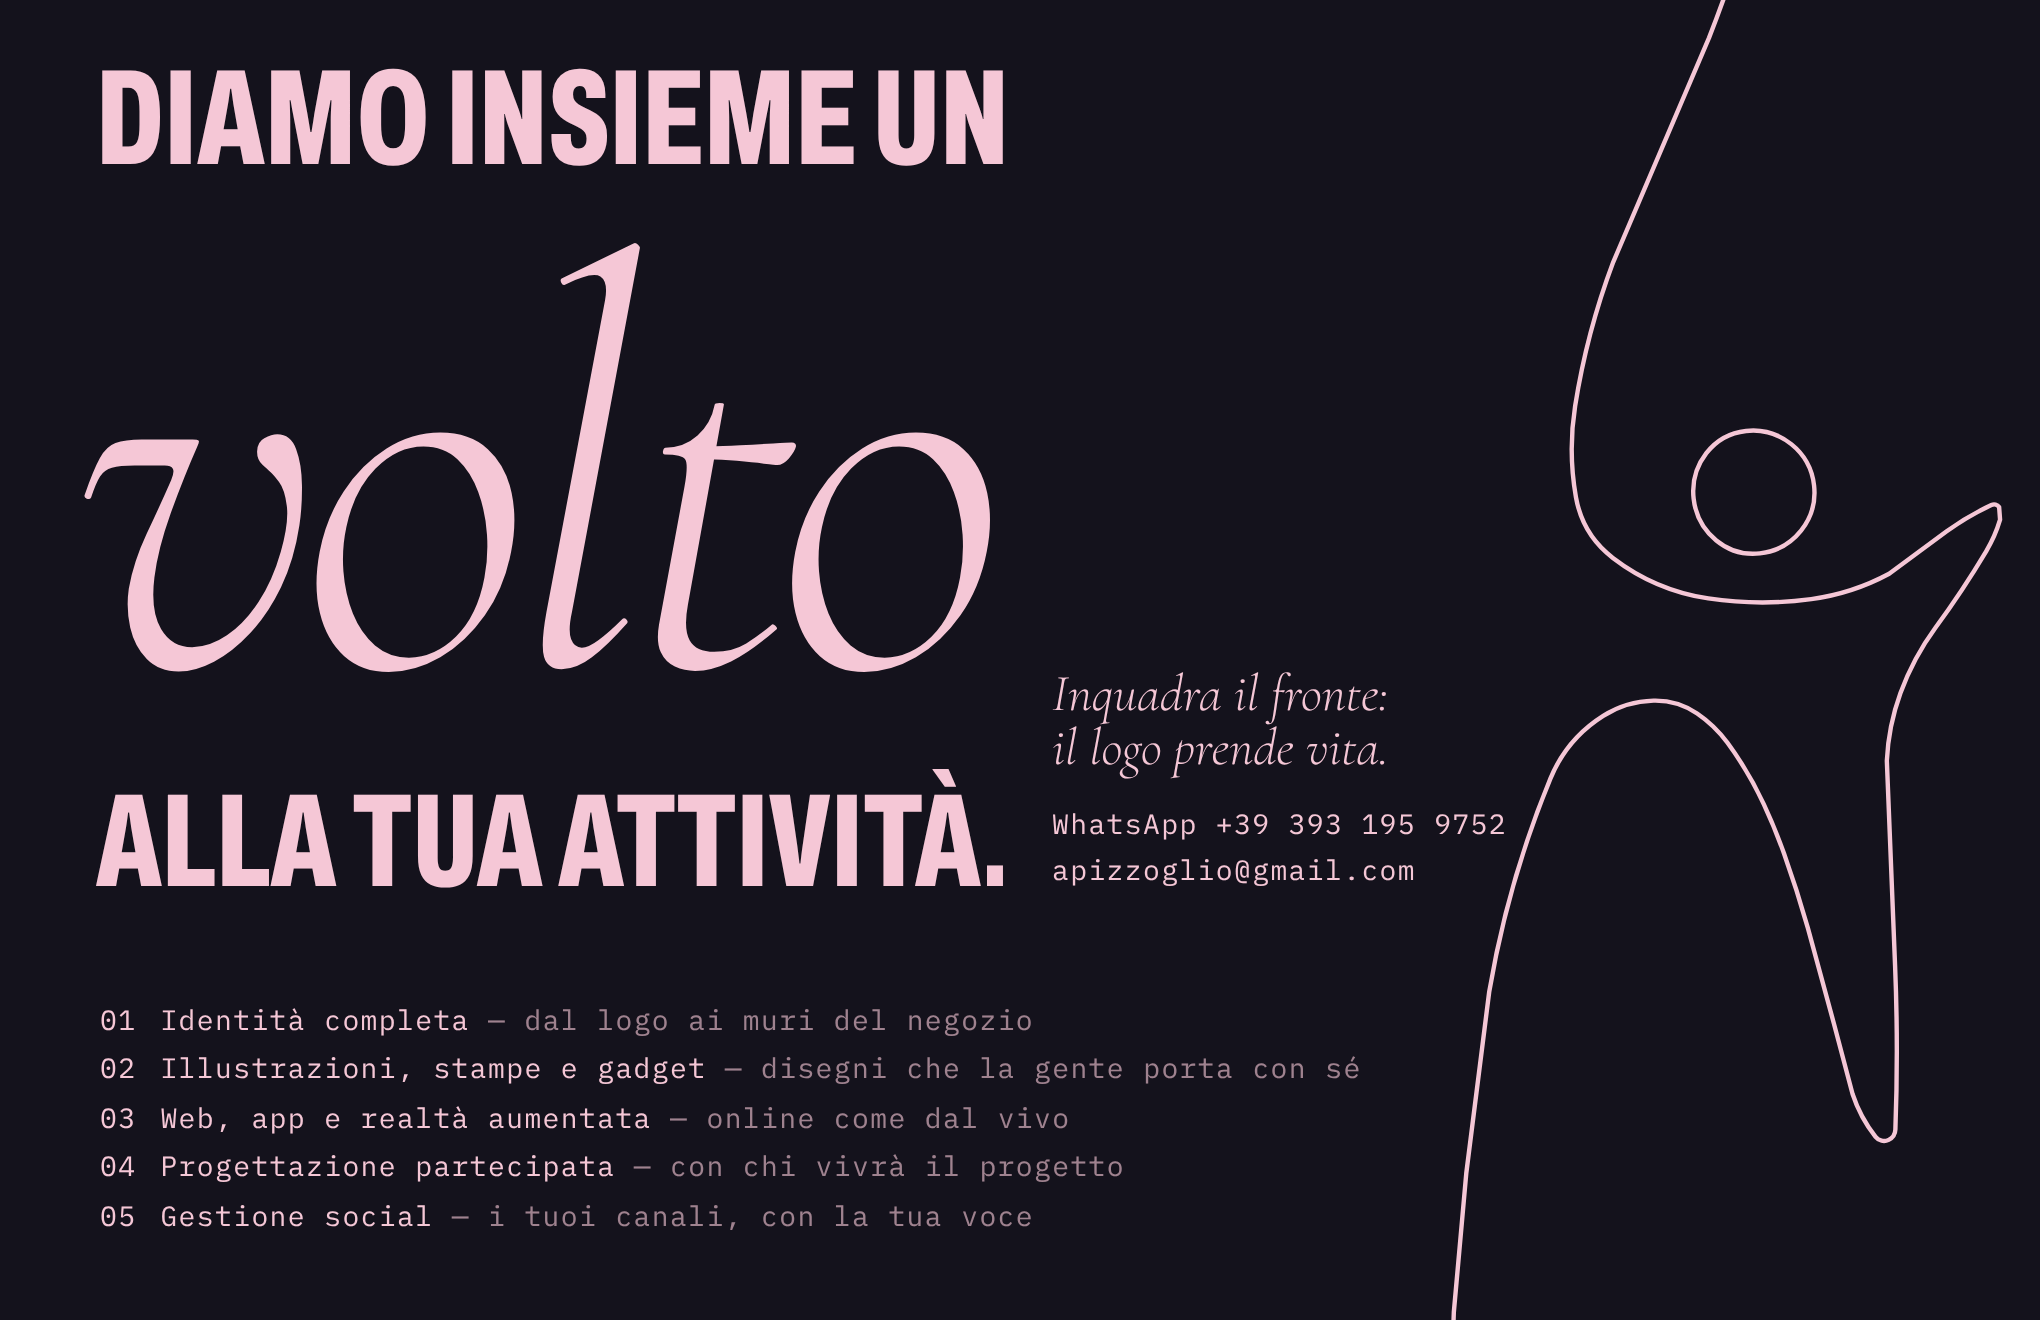
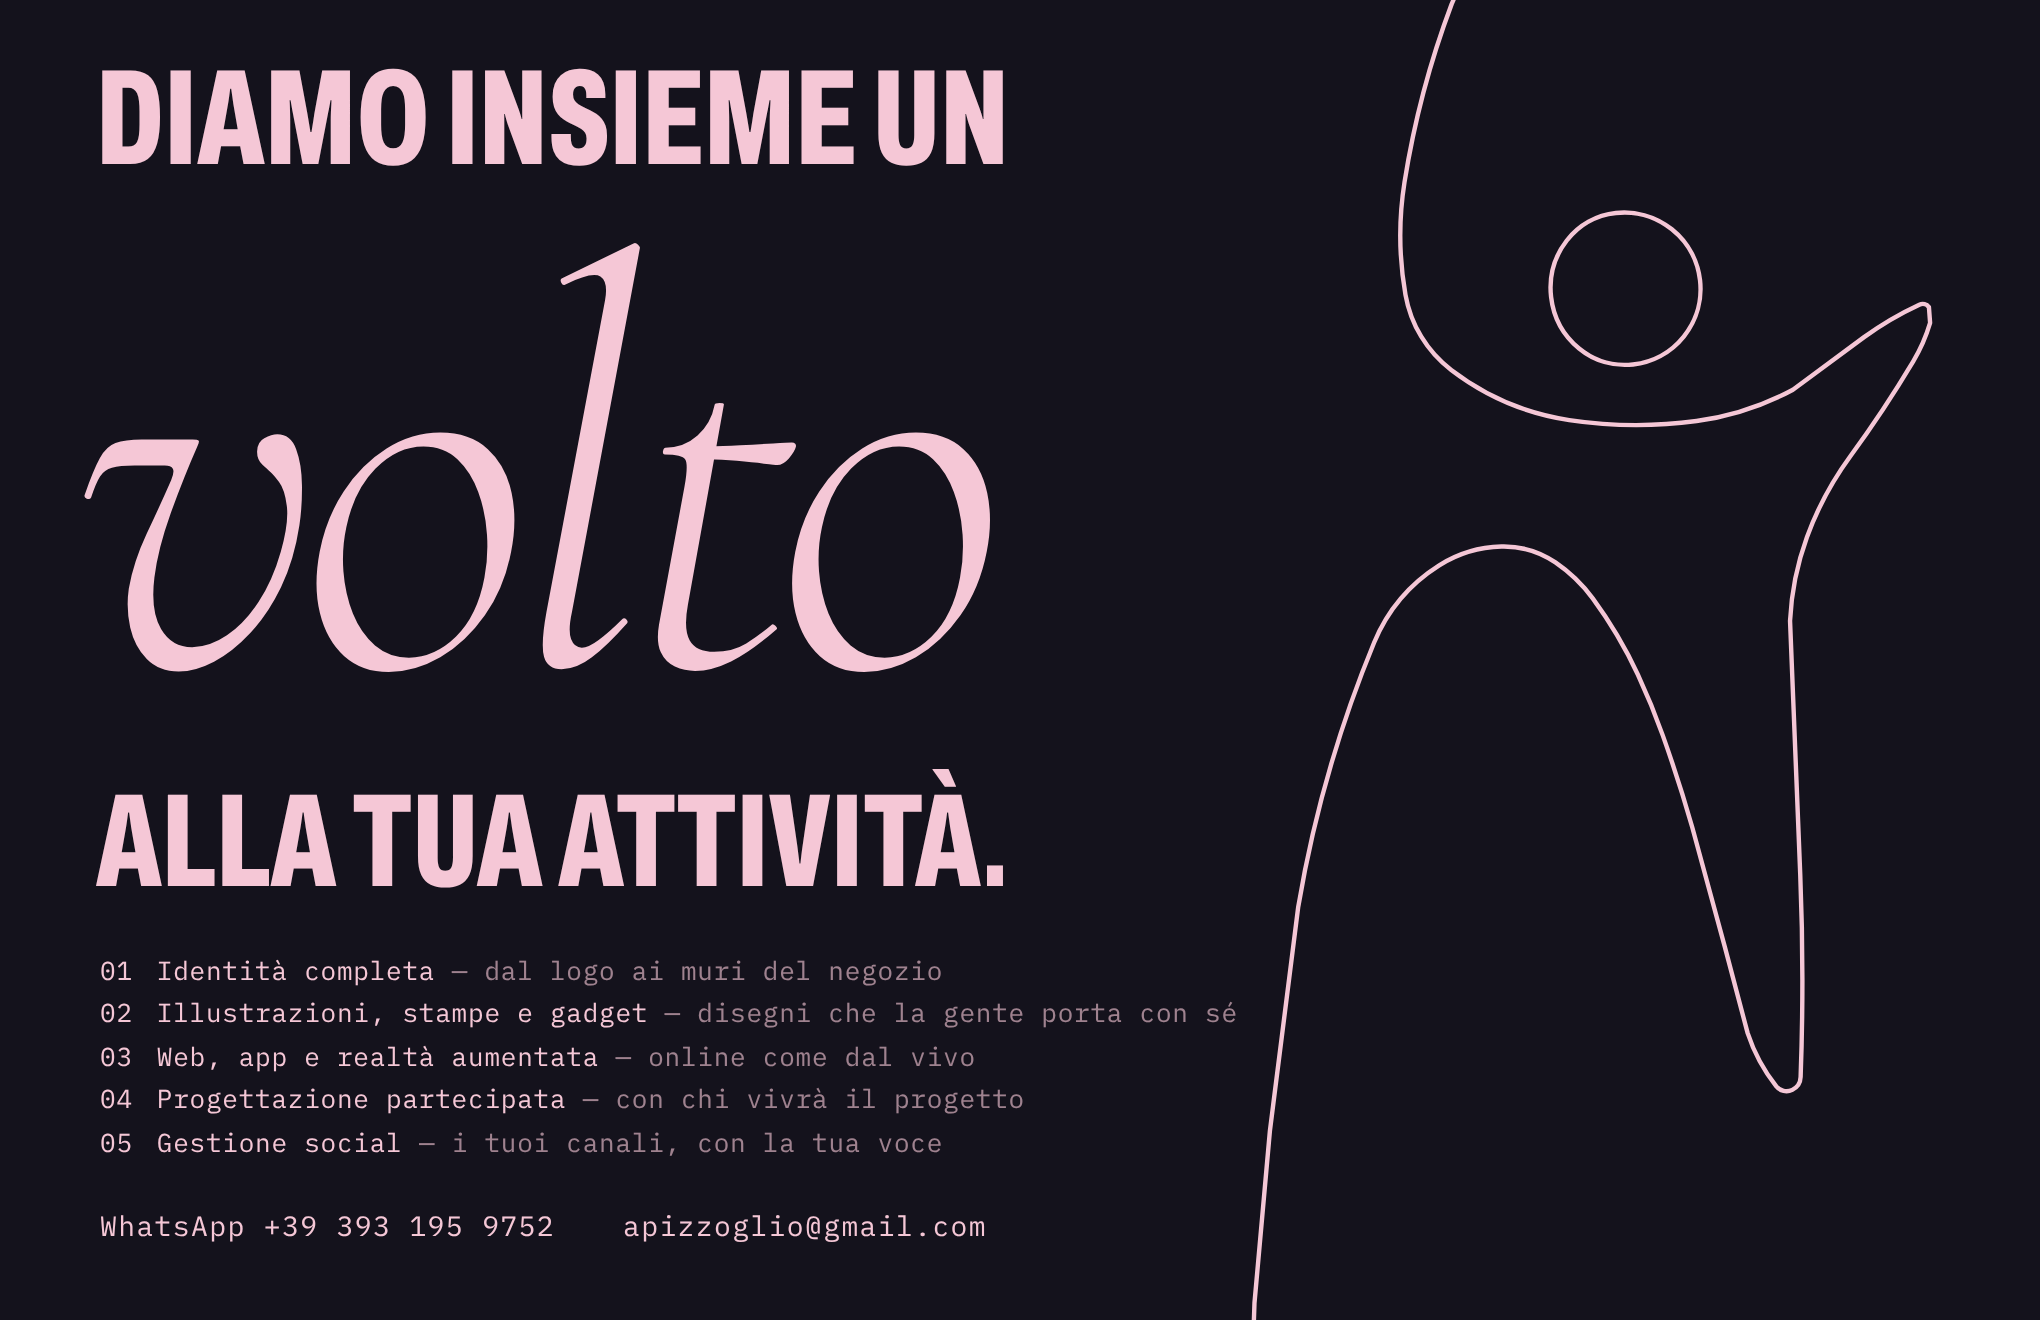
Biglietto, retro: la i piu' grande e verso il centro; via la riga sull'inquadrare, contatti in una riga sotto i servizi
Claude-Session: https://claude.ai/code/session_017BM5XjeHCbJ6zegj574eXv

diff --git a/ar-print/biglietto-retro.html b/ar-print/biglietto-retro.html
@@ -16,24 +16,23 @@
   .u { text-transform: uppercase; letter-spacing: .2em; font-size: 12px; }
 
   .det { position: absolute; left: 0; top: 0; width: 1020px; height: 660px; overflow: hidden; }
-  .det path { fill: none; stroke: #F5C7D6; stroke-width: 1.158; stroke-linejoin: round; stroke-linecap: round; }
+  .det path { fill: none; stroke: #F5C7D6; stroke-width: 0.936; stroke-linejoin: round; stroke-linecap: round; }
   /* il blocco del claim e' alto quanto la figura: la prima riga parte dalla punta della i, l'ultima finisce sulla punta della gamba */
   .claim { position: absolute; left: 48px; top: 34px; height: 412px; display: inline-flex; flex-direction: column; justify-content: space-between; align-items: flex-start; }
   .claim .a { display: block; font-size: 48px; line-height: .74; white-space: nowrap; letter-spacing: 0; }
   .claim .volto { display: block; font-size: 290px; line-height: .74; letter-spacing: -.035em; white-space: nowrap; margin-left: -12px; }
-  .servizi { position: absolute; left: 50px; bottom: 40px; list-style: none; }
-  .servizi li { line-height: 1.75; }
+  .servizi { position: absolute; left: 50px; bottom: 78px; list-style: none; font-size: 13px; letter-spacing: .03em; }
+  .servizi li { line-height: 1.65; }
   .servizi b { font-weight: 400; margin-right: 12px; }
   .servizi i { font-style: normal; opacity: .62; }
-  .contatti { position: absolute; left: 526px; bottom: 214px; text-align: left; }  /* tra il claim e la figura, sulla linea di ALLA TUA ATTIVITA */
-  .contatti .c { font-size: 26px; line-height: 1.05; margin-bottom: 14px; }
+  .contatti { position: absolute; left: 50px; bottom: 36px; display: flex; gap: 34px; }  /* una riga sola, sotto i servizi */
 
 </style></head>
 <body><div class="card">
-  <svg class="det" viewBox="0 0 1020 660"><g transform="translate(-729.57 -231.23) scale(1.9000)"><path d="M 842.7491491870207,88.40792444867843 A 2.43,2.43 0.0 0,1 845.56,88.88 A 4.19,4.19 0.0 0,1 846.61,92.94 A 397.87,397.87 0.0 0,1 833.72,131.68 L 808.52,190.67 A 193.84,193.84 0.0 0,0 798.49,228.56 A 72.37,72.37 0.0 0,0 798.7,252.51 A 25.81,25.81 0.0 0,0 808.43,268.51 A 54.76,54.76 0.0 0,0 833.54,279.17 A 95.45,95.45 0.0 0,0 860.63,279.37 A 60.43,60.43 0.0 0,0 881.13,272.7 L 896.27,261.52 A 70.24,70.24 0.0 0,1 908.03,254.62 A 1.67,1.67 0.0 0,1 910.07,255.13 L 910.32,258.47 A 35.85,35.85 0.0 0,1 906.7,266.71 A 259.81,259.81 0.0 0,1 893.31,286.9 A 69.32,69.32 0.0 0,0 884.11,304.09 A 60.26,60.26 0.0 0,0 880.52,321.9 L 882.69,375.85 A 556.83,556.83 0.0 0,1 882.77,418.93 A 3.2,3.2 0.0 0,1 881.0,421.67 A 2.8,2.8 0.0 0,1 877.56,420.89 A 36.89,36.89 0.0 0,1 871.5,409.61 L 866.6,391.1 L 859.71,365.8 A 322.56,322.56 0.0 0,0 853.44,346.25 A 149.95,149.95 0.0 0,0 848.13,333.3 A 95.23,95.23 0.0 0,0 838.54,317.11 A 32.71,32.71 0.0 0,0 830.6,309.45 A 19.54,19.54 0.0 0,0 819.11,306.07 A 26.02,26.02 0.0 0,0 805.88,310.07 A 35.47,35.47 0.0 0,0 792.01,326.54 A 261.41,261.41 0.0 0,0 775.88,382.72 L 769.85,430.42 L 766.57,467.03 L 765.2,507.64 L 764.3622779249334,514.4871663821559"/><path d="M 847.11,267.33 A 15.33,15.33 0.0 0,1 835.64,263.93 A 16.67,16.67 0.0 0,1 829.68,252.96 A 16.54,16.54 0.0 0,1 833.02,240.96 A 15.29,15.29 0.0 0,1 843.46,235.11 A 16.25,16.25 0.0 0,1 861.37,249.44 A 16.17,16.17 0.0 0,1 847.11,267.33"/></g></svg>
+  <svg class="det" viewBox="0 0 1020 660"><g transform="translate(-1174.20 -446.00) scale(2.3500)"><path d="M 842.7491491870207,88.40792444867843 A 2.43,2.43 0.0 0,1 845.56,88.88 A 4.19,4.19 0.0 0,1 846.61,92.94 A 397.87,397.87 0.0 0,1 833.72,131.68 L 808.52,190.67 A 193.84,193.84 0.0 0,0 798.49,228.56 A 72.37,72.37 0.0 0,0 798.7,252.51 A 25.81,25.81 0.0 0,0 808.43,268.51 A 54.76,54.76 0.0 0,0 833.54,279.17 A 95.45,95.45 0.0 0,0 860.63,279.37 A 60.43,60.43 0.0 0,0 881.13,272.7 L 896.27,261.52 A 70.24,70.24 0.0 0,1 908.03,254.62 A 1.67,1.67 0.0 0,1 910.07,255.13 L 910.32,258.47 A 35.85,35.85 0.0 0,1 906.7,266.71 A 259.81,259.81 0.0 0,1 893.31,286.9 A 69.32,69.32 0.0 0,0 884.11,304.09 A 60.26,60.26 0.0 0,0 880.52,321.9 L 882.69,375.85 A 556.83,556.83 0.0 0,1 882.77,418.93 A 3.2,3.2 0.0 0,1 881.0,421.67 A 2.8,2.8 0.0 0,1 877.56,420.89 A 36.89,36.89 0.0 0,1 871.5,409.61 L 866.6,391.1 L 859.71,365.8 A 322.56,322.56 0.0 0,0 853.44,346.25 A 149.95,149.95 0.0 0,0 848.13,333.3 A 95.23,95.23 0.0 0,0 838.54,317.11 A 32.71,32.71 0.0 0,0 830.6,309.45 A 19.54,19.54 0.0 0,0 819.11,306.07 A 26.02,26.02 0.0 0,0 805.88,310.07 A 35.47,35.47 0.0 0,0 792.01,326.54 A 261.41,261.41 0.0 0,0 775.88,382.72 L 769.85,430.42 L 766.57,467.03 L 765.2,507.64 L 764.3622779249334,514.4871663821559"/><path d="M 847.11,267.33 A 15.33,15.33 0.0 0,1 835.64,263.93 A 16.67,16.67 0.0 0,1 829.68,252.96 A 16.54,16.54 0.0 0,1 833.02,240.96 A 15.29,15.29 0.0 0,1 843.46,235.11 A 16.25,16.25 0.0 0,1 861.37,249.44 A 16.17,16.17 0.0 0,1 847.11,267.33"/></g></svg>
   <h1 class="claim"><span class="a" data-fit="#volto">Diamo insieme un</span><span class="volto c" id="volto">volto</span><span class="a" data-fit="#volto">alla tua attività.</span></h1>
   <ol class="servizi m"><li><b>01</b>Identità completa <i>— dal logo ai muri del negozio</i></li><li><b>02</b>Illustrazioni, stampe e gadget <i>— disegni che la gente porta con sé</i></li><li><b>03</b>Web, app e realtà aumentata <i>— online come dal vivo</i></li><li><b>04</b>Progettazione partecipata <i>— con chi vivrà il progetto</i></li><li><b>05</b>Gestione social <i>— i tuoi canali, con la tua voce</i></li></ol>
-  <div class="contatti"><p class="c">Inquadra il fronte:<br>il logo prende vita.</p><div class="m"><p>WhatsApp +39 393 195 9752</p><p>apizzoglio@gmail.com</p></div></div>
+  <div class="contatti m"><p>WhatsApp +39 393 195 9752</p><p>apizzoglio@gmail.com</p></div>
 </div>
 <script>
 // [lettering] le righe con data-fit si giustificano sulla larghezza dell'elemento indicato: i titoli in

diff --git a/ar-print/varianti/retro-bc/biglietto-retro.html b/ar-print/varianti/retro-bc/biglietto-retro.html
@@ -16,24 +16,23 @@
   .u { text-transform: uppercase; letter-spacing: .2em; font-size: 12px; }
 
   .det { position: absolute; left: 0; top: 0; width: 1020px; height: 660px; overflow: hidden; }
-  .det path { fill: none; stroke: #F5C7D6; stroke-width: 1.158; stroke-linejoin: round; stroke-linecap: round; }
+  .det path { fill: none; stroke: #F5C7D6; stroke-width: 0.936; stroke-linejoin: round; stroke-linecap: round; }
   /* il blocco del claim e' alto quanto la figura: la prima riga parte dalla punta della i, l'ultima finisce sulla punta della gamba */
   .claim { position: absolute; left: 48px; top: 34px; height: 412px; display: inline-flex; flex-direction: column; justify-content: space-between; align-items: flex-start; }
   .claim .a { display: block; font-size: 48px; line-height: .74; white-space: nowrap; letter-spacing: 0; }
   .claim .volto { display: block; font-size: 290px; line-height: .74; letter-spacing: -.035em; white-space: nowrap; margin-left: -12px; }
-  .servizi { position: absolute; left: 50px; bottom: 40px; list-style: none; }
-  .servizi li { line-height: 1.75; }
+  .servizi { position: absolute; left: 50px; bottom: 78px; list-style: none; font-size: 13px; letter-spacing: .03em; }
+  .servizi li { line-height: 1.65; }
   .servizi b { font-weight: 400; margin-right: 12px; }
   .servizi i { font-style: normal; opacity: .62; }
-  .contatti { position: absolute; left: 526px; bottom: 214px; text-align: left; }  /* tra il claim e la figura, sulla linea di ALLA TUA ATTIVITA */
-  .contatti .c { font-size: 26px; line-height: 1.05; margin-bottom: 14px; }
+  .contatti { position: absolute; left: 50px; bottom: 36px; display: flex; gap: 34px; }  /* una riga sola, sotto i servizi */
 
 </style></head>
 <body><div class="card">
-  <svg class="det" viewBox="0 0 1020 660"><g transform="translate(-729.57 -231.23) scale(1.9000)"><path d="M 842.7491491870207,88.40792444867843 A 2.43,2.43 0.0 0,1 845.56,88.88 A 4.19,4.19 0.0 0,1 846.61,92.94 A 397.87,397.87 0.0 0,1 833.72,131.68 L 808.52,190.67 A 193.84,193.84 0.0 0,0 798.49,228.56 A 72.37,72.37 0.0 0,0 798.7,252.51 A 25.81,25.81 0.0 0,0 808.43,268.51 A 54.76,54.76 0.0 0,0 833.54,279.17 A 95.45,95.45 0.0 0,0 860.63,279.37 A 60.43,60.43 0.0 0,0 881.13,272.7 L 896.27,261.52 A 70.24,70.24 0.0 0,1 908.03,254.62 A 1.67,1.67 0.0 0,1 910.07,255.13 L 910.32,258.47 A 35.85,35.85 0.0 0,1 906.7,266.71 A 259.81,259.81 0.0 0,1 893.31,286.9 A 69.32,69.32 0.0 0,0 884.11,304.09 A 60.26,60.26 0.0 0,0 880.52,321.9 L 882.69,375.85 A 556.83,556.83 0.0 0,1 882.77,418.93 A 3.2,3.2 0.0 0,1 881.0,421.67 A 2.8,2.8 0.0 0,1 877.56,420.89 A 36.89,36.89 0.0 0,1 871.5,409.61 L 866.6,391.1 L 859.71,365.8 A 322.56,322.56 0.0 0,0 853.44,346.25 A 149.95,149.95 0.0 0,0 848.13,333.3 A 95.23,95.23 0.0 0,0 838.54,317.11 A 32.71,32.71 0.0 0,0 830.6,309.45 A 19.54,19.54 0.0 0,0 819.11,306.07 A 26.02,26.02 0.0 0,0 805.88,310.07 A 35.47,35.47 0.0 0,0 792.01,326.54 A 261.41,261.41 0.0 0,0 775.88,382.72 L 769.85,430.42 L 766.57,467.03 L 765.2,507.64 L 764.3622779249334,514.4871663821559"/><path d="M 847.11,267.33 A 15.33,15.33 0.0 0,1 835.64,263.93 A 16.67,16.67 0.0 0,1 829.68,252.96 A 16.54,16.54 0.0 0,1 833.02,240.96 A 15.29,15.29 0.0 0,1 843.46,235.11 A 16.25,16.25 0.0 0,1 861.37,249.44 A 16.17,16.17 0.0 0,1 847.11,267.33"/></g></svg>
+  <svg class="det" viewBox="0 0 1020 660"><g transform="translate(-1174.20 -446.00) scale(2.3500)"><path d="M 842.7491491870207,88.40792444867843 A 2.43,2.43 0.0 0,1 845.56,88.88 A 4.19,4.19 0.0 0,1 846.61,92.94 A 397.87,397.87 0.0 0,1 833.72,131.68 L 808.52,190.67 A 193.84,193.84 0.0 0,0 798.49,228.56 A 72.37,72.37 0.0 0,0 798.7,252.51 A 25.81,25.81 0.0 0,0 808.43,268.51 A 54.76,54.76 0.0 0,0 833.54,279.17 A 95.45,95.45 0.0 0,0 860.63,279.37 A 60.43,60.43 0.0 0,0 881.13,272.7 L 896.27,261.52 A 70.24,70.24 0.0 0,1 908.03,254.62 A 1.67,1.67 0.0 0,1 910.07,255.13 L 910.32,258.47 A 35.85,35.85 0.0 0,1 906.7,266.71 A 259.81,259.81 0.0 0,1 893.31,286.9 A 69.32,69.32 0.0 0,0 884.11,304.09 A 60.26,60.26 0.0 0,0 880.52,321.9 L 882.69,375.85 A 556.83,556.83 0.0 0,1 882.77,418.93 A 3.2,3.2 0.0 0,1 881.0,421.67 A 2.8,2.8 0.0 0,1 877.56,420.89 A 36.89,36.89 0.0 0,1 871.5,409.61 L 866.6,391.1 L 859.71,365.8 A 322.56,322.56 0.0 0,0 853.44,346.25 A 149.95,149.95 0.0 0,0 848.13,333.3 A 95.23,95.23 0.0 0,0 838.54,317.11 A 32.71,32.71 0.0 0,0 830.6,309.45 A 19.54,19.54 0.0 0,0 819.11,306.07 A 26.02,26.02 0.0 0,0 805.88,310.07 A 35.47,35.47 0.0 0,0 792.01,326.54 A 261.41,261.41 0.0 0,0 775.88,382.72 L 769.85,430.42 L 766.57,467.03 L 765.2,507.64 L 764.3622779249334,514.4871663821559"/><path d="M 847.11,267.33 A 15.33,15.33 0.0 0,1 835.64,263.93 A 16.67,16.67 0.0 0,1 829.68,252.96 A 16.54,16.54 0.0 0,1 833.02,240.96 A 15.29,15.29 0.0 0,1 843.46,235.11 A 16.25,16.25 0.0 0,1 861.37,249.44 A 16.17,16.17 0.0 0,1 847.11,267.33"/></g></svg>
   <h1 class="claim"><span class="a" data-fit="#volto">Diamo insieme un</span><span class="volto c" id="volto">volto</span><span class="a" data-fit="#volto">alla tua attività.</span></h1>
   <ol class="servizi m"><li><b>01</b>Identità completa <i>— dal logo ai muri del negozio</i></li><li><b>02</b>Illustrazioni, stampe e gadget <i>— disegni che la gente porta con sé</i></li><li><b>03</b>Web, app e realtà aumentata <i>— online come dal vivo</i></li><li><b>04</b>Progettazione partecipata <i>— con chi vivrà il progetto</i></li><li><b>05</b>Gestione social <i>— i tuoi canali, con la tua voce</i></li></ol>
-  <div class="contatti"><p class="c">Inquadra il fronte:<br>il logo prende vita.</p><div class="m"><p>WhatsApp +39 393 195 9752</p><p>apizzoglio@gmail.com</p></div></div>
+  <div class="contatti m"><p>WhatsApp +39 393 195 9752</p><p>apizzoglio@gmail.com</p></div>
 </div>
 <script>
 // [lettering] le righe con data-fit si giustificano sulla larghezza dell'elemento indicato: i titoli in

diff --git a/scripts/biglietto-retri.py b/scripts/biglietto-retri.py
@@ -138,8 +138,8 @@ from svgpathtools import parse_path
 _P = parse_path(D); _sp = _P.continuous_subpaths()
 FIG = _sp[0].cropped(0.75455, 0.9236).d()           # dalla punta in alto (842, 88) giu' fino a (764, 515) sulla gamba della m
 TESTA = _sp[6].d()                                  # il pallino
-SC = 1.9                                            # la punta in alto esce di sopra, la gamba della m esce di sotto
-FTX, FTY = 1000 - 910.3 * SC, 570 - 421.7 * SC      # braccio a 1000 px, punta della gamba a 570 px
+SC = 2.35                                           # la punta in alto esce di sopra, la gamba della m esce di sotto
+FTX, FTY = 965 - 910.3 * SC, 545 - 421.7 * SC       # braccio a 965 px, punta della gamba a 545 px: la figura verso il centro
 TOP, H = 34, 412
 scrivi('retro-bc', NOTTE, ROSA, f'''
   .det {{ position: absolute; left: 0; top: 0; width: 1020px; height: 660px; overflow: hidden; }}
@@ -148,14 +148,13 @@ scrivi('retro-bc', NOTTE, ROSA, f'''
   .claim {{ position: absolute; left: 48px; top: {TOP}px; height: {H}px; display: inline-flex; flex-direction: column; justify-content: space-between; align-items: flex-start; }}
   .claim .a {{ display: block; font-size: 48px; line-height: .74; white-space: nowrap; letter-spacing: 0; }}
   .claim .volto {{ display: block; font-size: 290px; line-height: .74; letter-spacing: -.035em; white-space: nowrap; margin-left: -12px; }}
-  .servizi {{ position: absolute; left: 50px; bottom: 40px; list-style: none; }}
-  .servizi li {{ line-height: 1.75; }}
+  .servizi {{ position: absolute; left: 50px; bottom: 78px; list-style: none; font-size: 13px; letter-spacing: .03em; }}
+  .servizi li {{ line-height: 1.65; }}
   .servizi b {{ font-weight: 400; margin-right: 12px; }}
   .servizi i {{ font-style: normal; opacity: .62; }}
-  .contatti {{ position: absolute; left: 526px; bottom: {660 - TOP - H}px; text-align: left; }}  /* tra il claim e la figura, sulla linea di ALLA TUA ATTIVITA */
-  .contatti .c {{ font-size: 26px; line-height: 1.05; margin-bottom: 14px; }}
+  .contatti {{ position: absolute; left: 50px; bottom: 36px; display: flex; gap: 34px; }}  /* una riga sola, sotto i servizi */
 ''', f'''  <svg class="det" viewBox="0 0 1020 660"><g transform="translate({FTX:.2f} {FTY:.2f}) scale({SC:.4f})"><path d="{FIG}"/><path d="{TESTA}"/></g></svg>
   <h1 class="claim"><span class="a" data-fit="#volto">Diamo insieme un</span><span class="volto c" id="volto">volto</span><span class="a" data-fit="#volto">alla tua attività.</span></h1>
   <ol class="servizi m">{"".join(f'<li><b>{i+1:02d}</b>{t} <i>— {x.lower()}</i></li>' for i, (t, x) in enumerate(zip(SERVIZI, DETTAGLI)))}</ol>
-  <div class="contatti"><p class="c">Inquadra il fronte:<br>il logo prende vita.</p><div class="m"><p>WhatsApp +39 393 195 9752</p><p>apizzoglio@gmail.com</p></div></div>''')
+  <div class="contatti m"><p>WhatsApp +39 393 195 9752</p><p>apizzoglio@gmail.com</p></div>''')
 print('scritte le proposte del retro')
